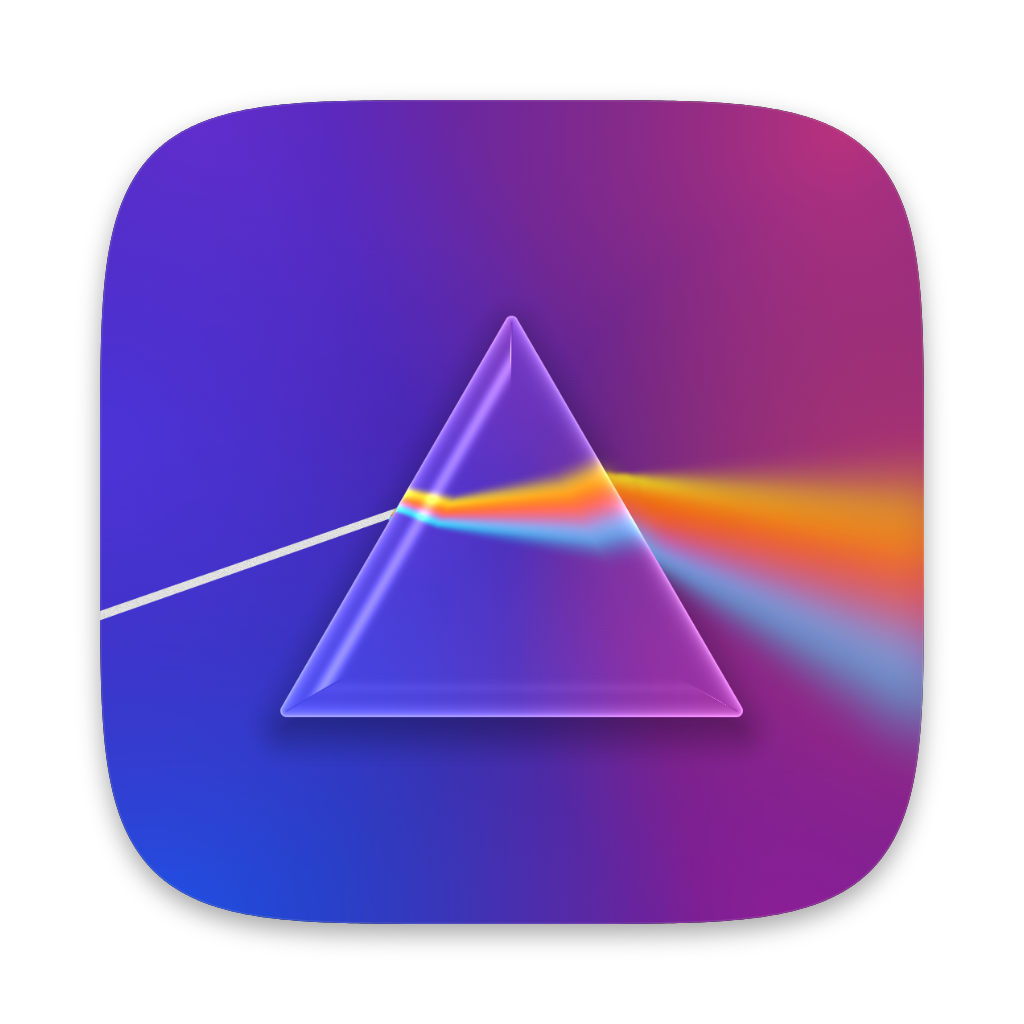
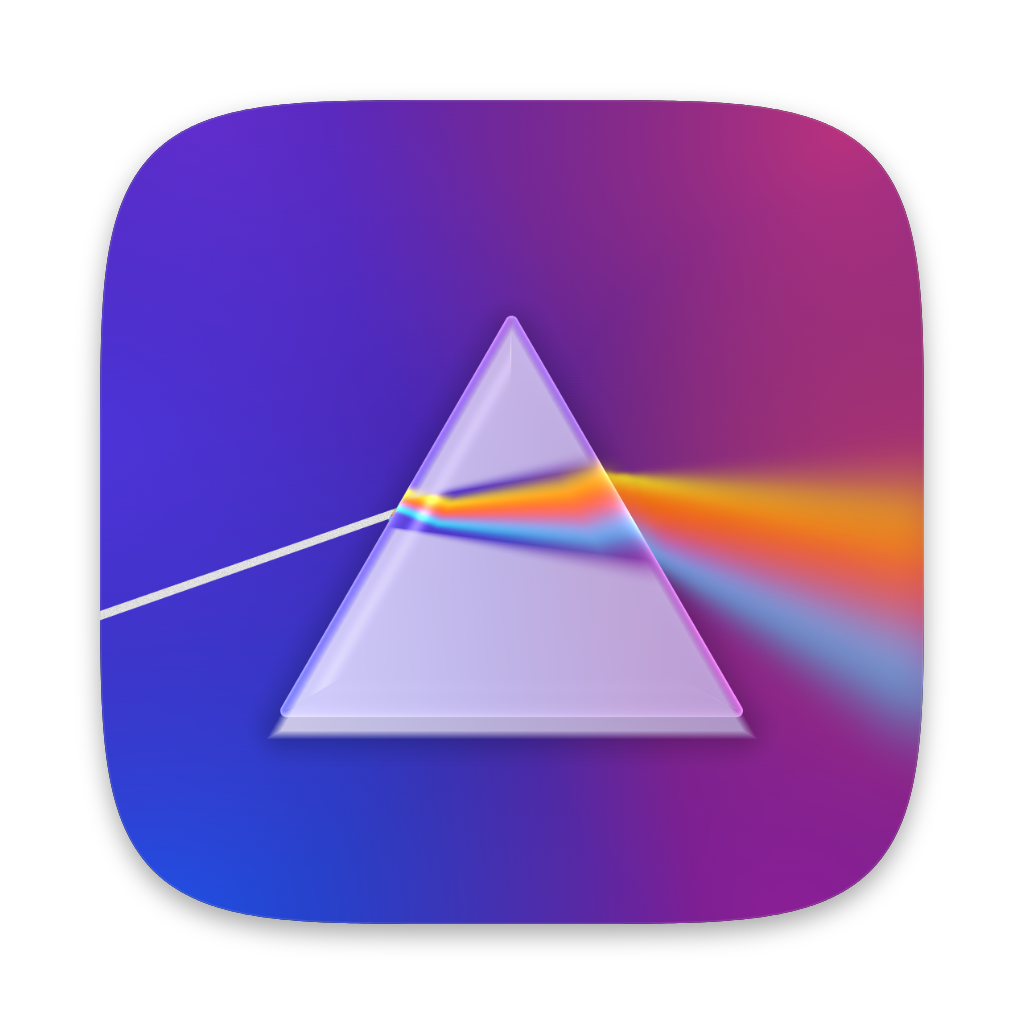
fix(desktop): fill the prism's body, as iOS draws it
The desktop icon copied the Icon Composer layers' 50% glass, so the prism
showed only its edges over the Ink background: a hollow outline, where the
Home Screen, which iOS draws the glass for, shows a filled prism.

resources/icon.png and icon-dev.png now fill the body inside the silhouette
with a near-white gradient at 78%, and keep the beam and the fan of light.
docs/ios-app-icons.md says how, so the next render matches.

Changed region(s): [[0.25, 0.3125, 0.75, 0.7188]]

diff --git a/docs/ios-app-icons.md b/docs/ios-app-icons.md
@@ -83,17 +83,24 @@ would be drawn twice.
 The desktop app's icon is the same prism. `resources/icon.png` (GoRex) and
 `resources/icon-dev.png` (GoRex Dev) are 1024 px PNGs: the icon's layers
 drawn into the squircle of macOS icons (824 px, inset 100 px) with a soft
-shadow, as `tools/mkicon` drew the panes before. MyGo makes the macOS,
-Windows and Linux icons from them.
+shadow. MyGo makes the macOS, Windows and Linux icons from them.
 
 - GoRex has the Ink background, as Rex Go.
 - GoRex Dev has a violet-to-magenta gradient behind the same prism, so that
   the two read apart in the Dock.
 
+**The prism is solid.** iOS draws the glass, so the prism is a filled shape on
+the Home Screen. A bitmap that copies the layer's 50% opacity shows only its
+edges, a hollow outline, so both renders fill the body: inside the silhouette
+(`prism2.png`'s triangle, inset by the 30 px bevel), a gradient at 78%
+replaces what is there, `#FCFDFF` at the top to `#D6DCEA` at the bottom, and
+`#F6F1FF` to `#C4BAE2` for GoRex Dev. The beam and the fan of light keep
+their pixels, so the light still runs through the glass.
+
 They are renders of the Icon Composer layers, not files a tool in the repo
 writes: when `AppIcon.icon` changes, render them again by hand, as the
-previews. `tools/mkicon` now draws only the web client's icons (`-web`),
-which still show the panes.
+previews, and fill the body as above. `tools/mkicon` now draws only the web
+client's icons (`-web`), which still show the panes.
 
 ## The setting
 
